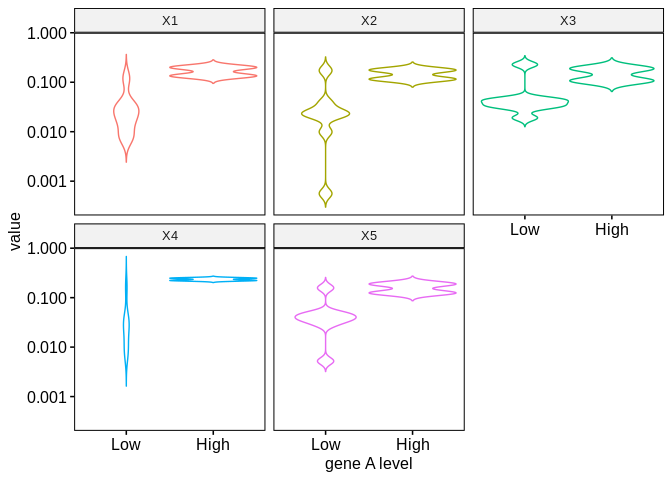
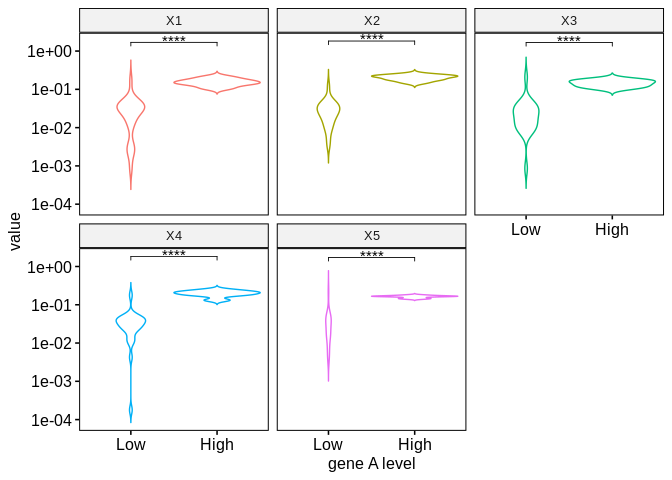
Update data-test

diff --git a/README.md b/README.md
@@ -37,28 +37,28 @@ library(tcgaViz)
 library(ggpubr, quietly = TRUE)
 data(tcga)
 head(tcga$genes)
-#>   sample                 A                B                C                D
-#> 2 TCGA.1 0.264956243336201  7.5578053551726 6.64468276314437 7.30197078548372
-#> 3 TCGA.2  5.80623494228348  4.3964810599573  0.2317652432248 4.25982138840482
-#> 4 TCGA.3  1.51089240098372 5.28972591506317 4.53657245496288 4.55307093448937
-#> 5 TCGA.4                 0                0                0                0
-#> 6 TCGA.5                 0                0                0                0
-#> 7 TCGA.6                 0                0                0                0
+#>   sample                 A                B                 C                D
+#> 2 TCGA.1  8.97116117877886 4.26292435266078 0.492107251193374 1.85751097276807
+#> 3 TCGA.2  9.12563563324511 2.73392115719616  3.24038315331563 5.03499635728076
+#> 4 TCGA.3 0.701268787961453 8.47947539994493  7.76274828705937 1.61729729501531
+#> 5 TCGA.4  2.16840990586206 2.21364883705974  3.06037642993033 1.14250980783254
+#> 6 TCGA.5  9.09195550484583 6.35310396784917   6.0954469977878 7.76918348390609
+#> 7 TCGA.6  5.76683731516823 5.04617205588147 0.535580450668931 8.22196035413072
 #>                  E
-#> 2 7.20611368305981
-#> 3 4.37935584923252
-#> 4 2.05277875065804
-#> 5                0
-#> 6                0
-#> 7                0
+#> 2 6.08688574051484
+#> 3 7.24961997009814
+#> 4  1.3692767242901
+#> 5 2.57149390410632
+#> 6 7.47873045271263
+#> 7 5.85510938894004
 head(tcga$cells)
-#>   sample study         X1         X2         X3          X4          X5
-#> 1 TCGA.1  BRCA 0.11964897 0.17258556 0.22736153 0.162625148 0.157512098
-#> 2 TCGA.2  BRCA 0.13435747 0.11526549 0.18884739 0.247721644 0.124613627
-#> 3 TCGA.3  BRCA 0.19983883 0.17633938 0.10698929 0.222369858 0.189028837
-#> 4 TCGA.4  BRCA 0.02814420 0.02120825 0.03030321 0.033897122 0.048205742
-#> 5 TCGA.5  BRCA 0.03173877 0.02522355 0.04228744 0.008519522 0.040753161
-#> 6 TCGA.6  BRCA 0.01788060 0.02112549 0.01904156 0.032661149 0.005202346
+#>   sample study        X1        X2        X3        X4        X5
+#> 1 TCGA.1  BRCA 0.1477789 0.1488009 0.1038226 0.2023672 0.1634447
+#> 2 TCGA.2  BRCA 0.1792274 0.2159358 0.1804520 0.2234023 0.1422903
+#> 3 TCGA.3  BRCA 0.1640474 0.1183449 0.2076342 0.1778389 0.2221061
+#> 4 TCGA.4  BRCA 0.1274322 0.2468163 0.1290748 0.2120794 0.1788205
+#> 5 TCGA.5  BRCA 0.1436745 0.2173027 0.1437432 0.2468838 0.1685714
+#> 6 TCGA.6  BRCA 0.1658555 0.1802094 0.1786337 0.1847483 0.1669041
 ```
 
 #### Violin plot of cell subtypes
